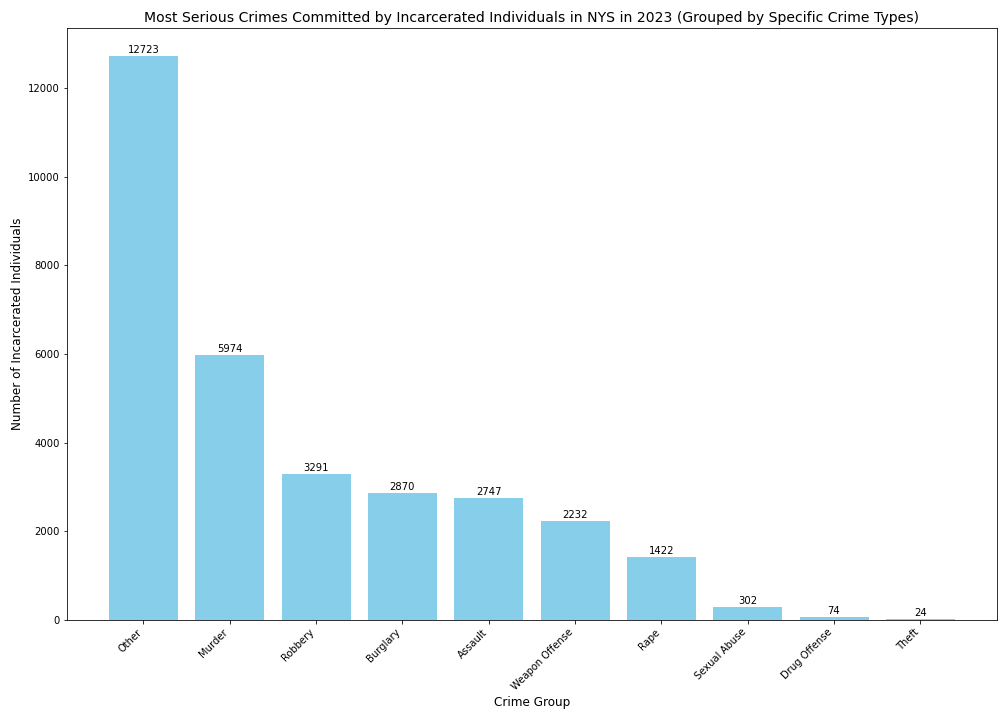
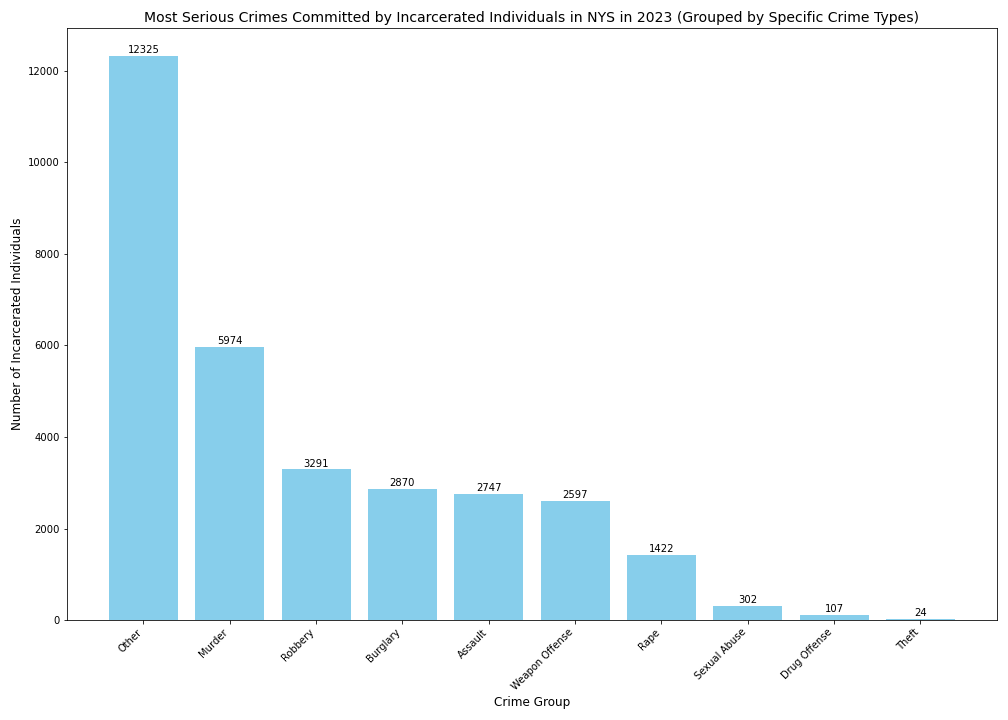
Working 4.23.24

diff --git a/NONWHITE SCATTERPLOTS/nonwhite_scatters.py b/NONWHITE SCATTERPLOTS/nonwhite_scatters.py
@@ -1,64 +1,64 @@
-#This script generates scatter plots comparing the percentage of non-white incarcerated individuals to the total number of incarcerated individuals by housing facility and county in the snapshot year 2023.
+# This script generates scatter plots comparing the percentage of non-white incarcerated individuals to the total number of incarcerated individuals by housing facility and county in the snapshot year 2023.
 
-#Importing necessary libraries.
+# Importing necessary libraries.
 import pandas as pd
 import matplotlib.pyplot as plt
 
-#Reading the dataset for incarcerated individuals under custody.
+# Reading the dataset for incarcerated individuals under custody.
 incarcerated_data = pd.read_csv("Incarcerated_Individuals_Under_Custody_Beginning_2008.csv")
 
-#Trimming down to year 2023.
+# Trimming down to year 2023.
 incarcerated_data_2023 = incarcerated_data[incarcerated_data['Snapshot Year'] == 2023]
 
-#Grouping by housing facility and counting the number of incarcerated individuals.
+# Grouping by housing facility and counting the number of incarcerated individuals.
 facility_counts = incarcerated_data_2023.groupby('Housing Facility').size().reset_index(name='Total_Count')
 
-#Calculating the number of non-white individuals for each housing facility.
+# Calculating the number of non-white individuals for each housing facility.
 nonwhite_counts = incarcerated_data_2023[incarcerated_data_2023['Race/Ethnicity'] != 'WHITE'].groupby('Housing Facility').size().reset_index(name='Nonwhite_Count')
 
-#Merging the total counts and non-white counts by housing facility.
+# Merging the total counts and non-white counts by housing facility.
 facility_counts = pd.merge(facility_counts, nonwhite_counts, on='Housing Facility', how='left')
 
-#Calculating the percentage of non-white individuals for each housing facility.
+# Calculating the percentage of non-white individuals for each housing facility.
 facility_counts['Nonwhite_Percentage'] = (facility_counts['Nonwhite_Count'] / facility_counts['Total_Count']) * 100
 
-#Saving the facility counts and percentages to a CSV file.
+# Saving the facility counts and percentages to a CSV file.
 facility_counts.to_csv('nonwhite_facility_counts.csv', index=False)
 
-#Creating a scatter plot between the percentage of non-white incarcerated individuals and the total number of incarcerated individuals in the facilities.
+# Creating a scatter plot between the percentage of non-white incarcerated individuals and the total number of incarcerated individuals in the facilities.
 plt.figure(figsize=(10, 6))
-plt.scatter(facility_counts['Nonwhite_Percentage'], facility_counts['Total_Count'], color='brown', alpha=0.5)
-plt.xlabel('% Non-White Individuals', fontsize=12)
-plt.ylabel('Number of Incarcerated Individuals', fontsize=12)
-plt.title('% Non-White vs. Total # of Incarcerated Individuals by Housing Facility (2023)', fontsize=14)
+plt.scatter(facility_counts['Total_Count'], facility_counts['Nonwhite_Percentage'], color='brown', alpha=0.5)  # Axes switched
+plt.xlabel('Number of Incarcerated Individuals', fontsize=12)  # Axes switched
+plt.ylabel('% Non-White Individuals', fontsize=12)  # Axes switched
+plt.title('Total # of Incarcerated Individuals vs. % Non-White by Housing Facility (2023)', fontsize=14)  # Axes switched
 plt.xticks(fontsize=10)
 plt.yticks(fontsize=10)
 plt.grid(True)
 plt.tight_layout()
-plt.savefig('scatterplot_nonwhite_vs_total_by_facility.png')
+plt.savefig('scatterplot_total_vs_nonwhite_by_facility.png')
 plt.show()
 
-#Grouping by county and counting the number of incarcerated individuals.
+# Grouping by county and counting the number of incarcerated individuals.
 county_counts = incarcerated_data_2023.groupby('County of Indictment').size().reset_index(name='Total_Count')
 
-#Calculating the number of non-white individuals for each county.
+# Calculating the number of non-white individuals for each county.
 nonwhite_counts_by_county = incarcerated_data_2023[incarcerated_data_2023['Race/Ethnicity'] != 'WHITE'].groupby('County of Indictment').size().reset_index(name='Nonwhite_Count')
 
-#Merging the total counts and non-white counts by county.
+# Merging the total counts and non-white counts by county.
 county_counts = pd.merge(county_counts, nonwhite_counts_by_county, on='County of Indictment', how='left')
 
-#Calculating the percentage of non-white individuals for each county.
+# Calculating the percentage of non-white individuals for each county.
 county_counts['Nonwhite_Percentage'] = (county_counts['Nonwhite_Count'] / county_counts['Total_Count']) * 100
 
-#Creating a scatter plot between the percentage of non-white incarcerated individuals and the total number of incarcerated individuals by county.
+# Creating a scatter plot between the percentage of non-white incarcerated individuals and the total number of incarcerated individuals by county.
 plt.figure(figsize=(10, 6))
-plt.scatter(county_counts['Nonwhite_Percentage'], county_counts['Total_Count'], color='brown', alpha=0.5)
-plt.xlabel('% Non-White Individuals', fontsize=12)
-plt.ylabel('Number of Incarcerated Individuals', fontsize=12)
-plt.title('% Non-White vs. Total # of Incarcerated Individuals by County (2023)', fontsize=14)
+plt.scatter(county_counts['Total_Count'], county_counts['Nonwhite_Percentage'], color='brown', alpha=0.5)  # Axes switched
+plt.xlabel('Number of Incarcerated Individuals', fontsize=12)  # Axes switched
+plt.ylabel('% Non-White Individuals', fontsize=12)  # Axes switched
+plt.title('Total # of Incarcerated Individuals vs. % Non-White by County (2023)', fontsize=14)  # Axes switched
 plt.xticks(fontsize=10)
 plt.yticks(fontsize=10)
 plt.grid(True)
 plt.tight_layout()
-plt.savefig('scatterplot_nonwhite_vs_total_by_county.png')
+plt.savefig('scatterplot_total_vs_nonwhite_by_county.png')
 plt.show()

diff --git a/CRIMES/crimes.py b/CRIMES/crimes.py
@@ -1,4 +1,4 @@
-#This script analyzes data on incarcerated individuals in NYS for 2023, counting occurrences of each most serious crime and categorizing them into 10 groups. It generates bar graphs for the top 10 most frequent crimes and the distribution of crimes by type.
+#This script analyzes data on incarcerated individuals in NYS for 2023, counting occurrences of each most serious crime and categorizing them into relevant groups. It generates bar graphs for the top 10 most frequent crimes and the distribution of crimes by type.
 
 #Importing necessary libraries.
 import pandas as pd
@@ -46,25 +46,26 @@ print(top_10_crimes)
 print("\nLeast 10 Reported Most Serious Crimes:")
 print(least_10_crimes)
 
-#Defining a function to categorize crime types into 10 specific groups.
+#Defining a function to categorize most serious crime types---trying to be as specific as possible!
 def categorize_crime(crime):
-    if 'murder' in crime.lower():
+    crime = crime.upper()  # Convert to uppercase for case-insensitive matching
+    if 'MURDER' in crime:
         return 'Murder'
-    elif 'robbery' in crime.lower():
+    elif 'ROBBERY' in crime:
         return 'Robbery'
-    elif 'burglary' in crime.lower():
+    elif 'BURGLARY' in crime:
         return 'Burglary'
-    elif 'theft' in crime.lower():
+    elif 'THEFT' in crime:
         return 'Theft'
-    elif 'assault' in crime.lower():
+    elif 'ASSAULT' in crime:
         return 'Assault'
-    elif 'rape' in crime.lower():
+    elif 'RAPE' in crime:
         return 'Rape'
-    elif 'sexual abuse' in crime.lower():
+    elif 'SEXUAL ABUSE' in crime:
         return 'Sexual Abuse'
-    elif 'drug' in crime.lower():
+    elif any(keyword in crime for keyword in ['DRUG', 'METH', 'PARAPHER']):  # Check for drug-related keywords
         return 'Drug Offense'
-    elif 'weapon' in crime.lower():
+    elif any(keyword in crime for keyword in ['WEAPON', 'FIREARM']):  # Check for weapon-related keywords
         return 'Weapon Offense'
     else:
         return 'Other'

diff --git a/CHOROPLETH/nonwhite_choropleth.py b/CHOROPLETH/nonwhite_choropleth.py
@@ -27,7 +27,7 @@ county_counts['Non_White_Percentage'] = (county_counts['Non_White_Count'] / coun
 county_boundaries = gpd.read_file("NYS_Civil_Boundaries.gpkg")
 
 #Merging county boundaries with county counts.
-county_boundaries_with_data = county_boundaries.merge(county_counts, left_index=True, right_index=True)
+county_boundaries_with_data = county_boundaries.merge(county_counts, left_on='NAME', right_on='County of Indictment', how='left')
 
 #Plotting the choropleth map showing the intensity of the percentage of non-white individuals.
 plt.figure(figsize=(18, 16))  
@@ -48,4 +48,3 @@ print(top_25_counties[['NAME', 'Non_White_Percentage']].head((25)))
 
 #Writing the top 10 counties data to a CSV file.
 sorted_data.to_csv('percent_nonwhite_sorted_counties.csv', index=False)
-
